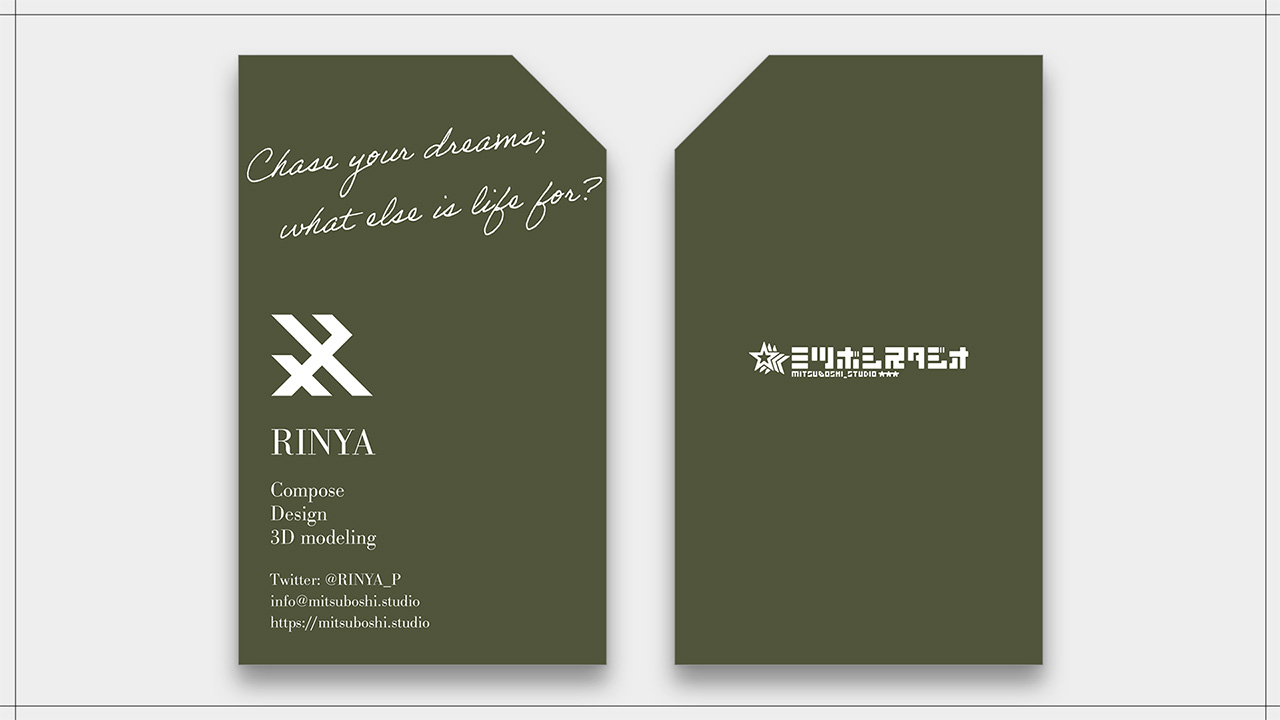
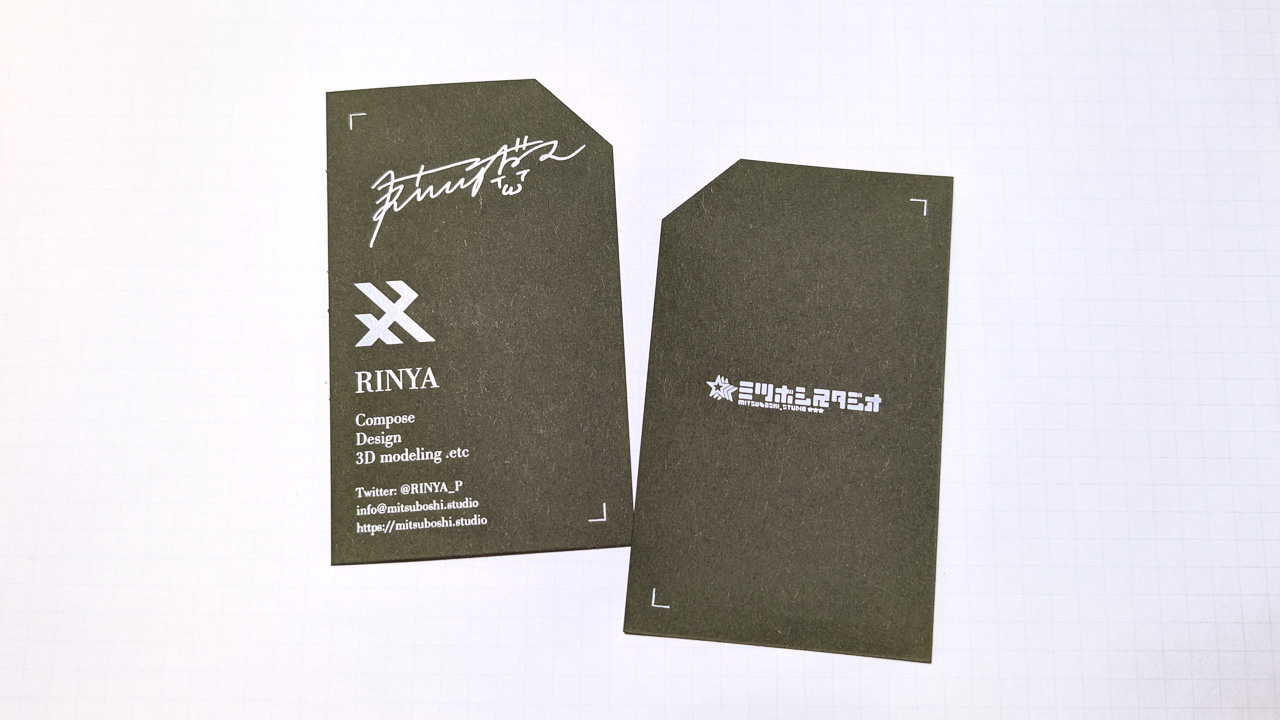
Worksの自分の名刺の画像と説明文を変更

diff --git a/js/works.js b/js/works.js
@@ -97,7 +97,7 @@
       title: "自分用名刺デザイン",
       date: '20250101',
       tags: ['Design'], // Music, Design, 3D, Other
-      description: '自分で使用する名刺として制作。個人的に好きな色である緑の台紙で、文字やその他の要素は全て白顔料の箔押し想定でシンプルなデザインとした。<br>制作期間は2日。使用ツールはPhotoshop及びIllustrator。',
+      description: '自分で使用する名刺として制作。個人的に好きな色である緑の台紙に、文字やその他の要素は全て白顔料の箔押し想定でシンプルなデザインとした。<br>制作期間は2日。使用ツールはIllustrator。印刷は個人的にお気に入りの<a class="modal__description--reference" href="https://haku-asadaya.com/" target="_blank">あさだ屋</a>さんに依頼。',
       thumbnail: 'img/works/works_design_namecardMy.jpg',
       videoValue: 0, // 0: thumbnail流用 1: YouTube動画埋め込み
       video: '', // YouTube動画ID（watch?v=の後ろ）
